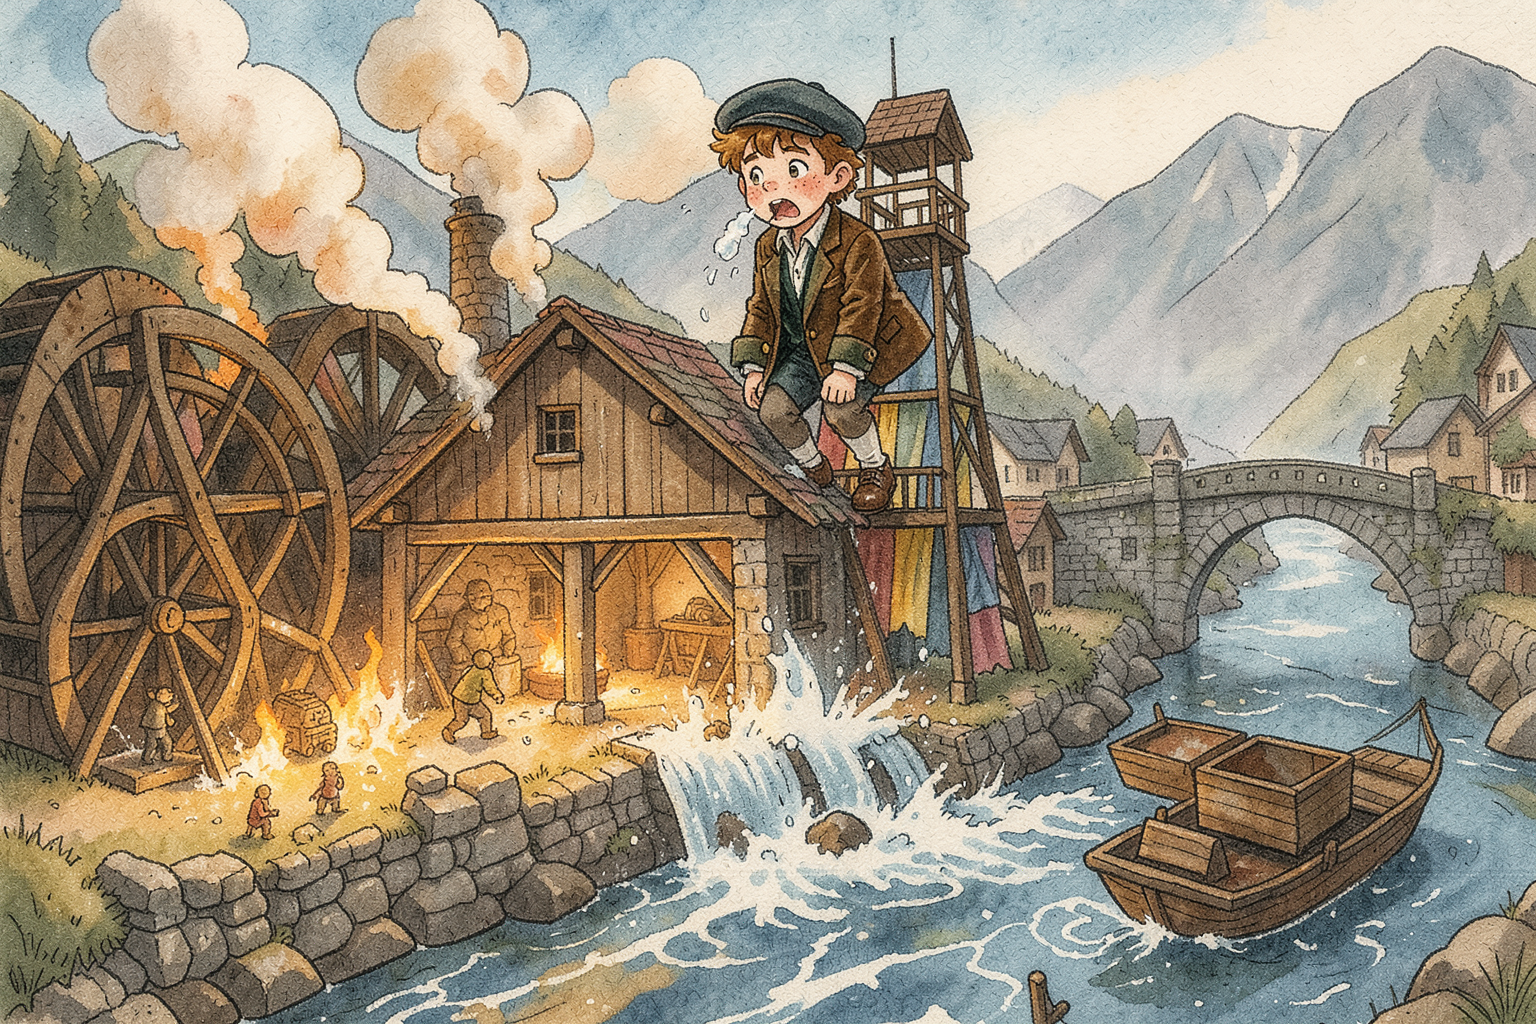
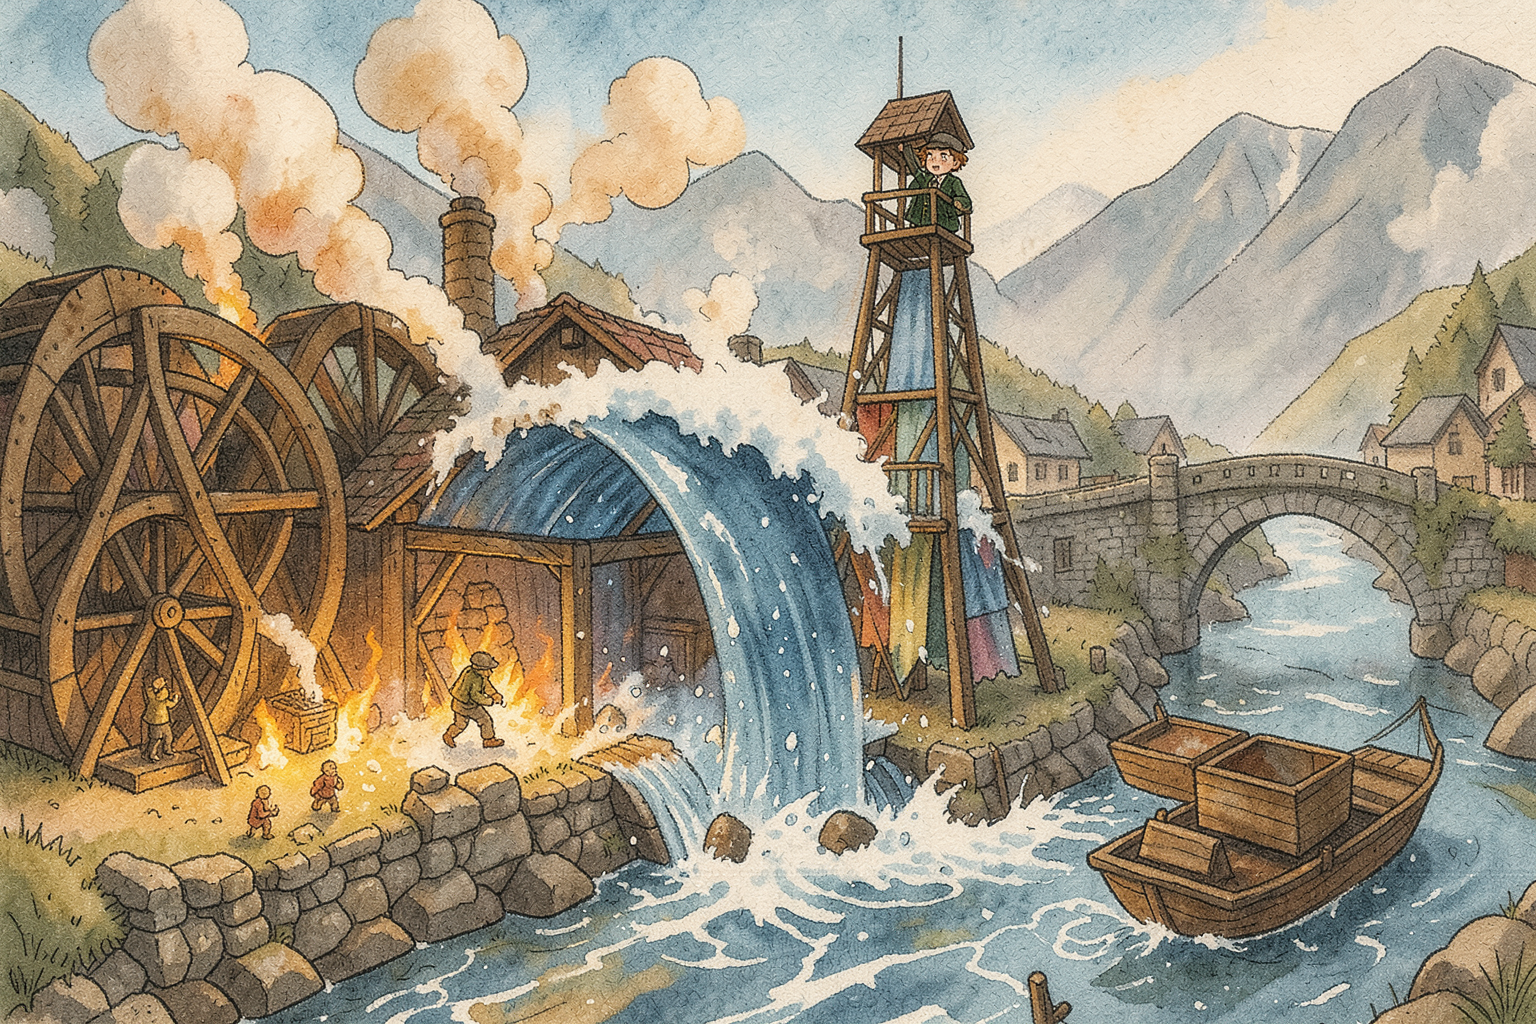
Bildprüfung: Perle 2 neu erzeugt

diff --git a/docs/art/szenen/perle-2/README.md b/docs/art/szenen/perle-2/README.md
@@ -85,3 +85,12 @@ Alle mit `tools/erzeuge-szene.ps1`, FLUX.2 klein 4B, je 6 Seeds, Referenzen aus 
 | Bild | Ergebnis |
 |---|---|
 | `szene-tuchhalle` | behalten: Brillen-Bearbeitung setzte in allen Seeds Linsentürme auf Nase oder Stirn |
+
+| `szene-erwachen-erde-cassian` | neu, Seed 5: Steintreppe wächst am Turm empor, der Junge steigt herab |
+| `szene-erwachen-erde-liora` | neu, Seed 5: Steintreppe am Turm, das Mädchen steigt herab |
+| `szene-erwachen-feuer-cassian` | behalten: alle 6 Seeds zeigen den Jungen groß statt klein oben, zwei Seeds mit Händen des Betrachters |
+| `szene-erwachen-wasser-cassian` | neu, Seed 3: Junge klein oben auf dem Turm, gewölbte Welle über dem Feuer |
+| `szene-erwachen-wasser-liora` | neu, Seed 3: Mädchen klein oben auf dem Turm, gewölbte Welle, kein Strahl unter ihr |
+| `szene-faerberturm-feuer` | neu, Seed 5: der Turm brennt unten, das Kind oben nur als kleine Silhouette |
+| `szene-grosse-schmiede` | neu, Seed 4: geschlossene Halle, kein Boot, kein Wasserrad |
+| `szene-schmiedekeller` | neu, Seed 3: Eisenstangen liegen am Boden, keine Gitter |
